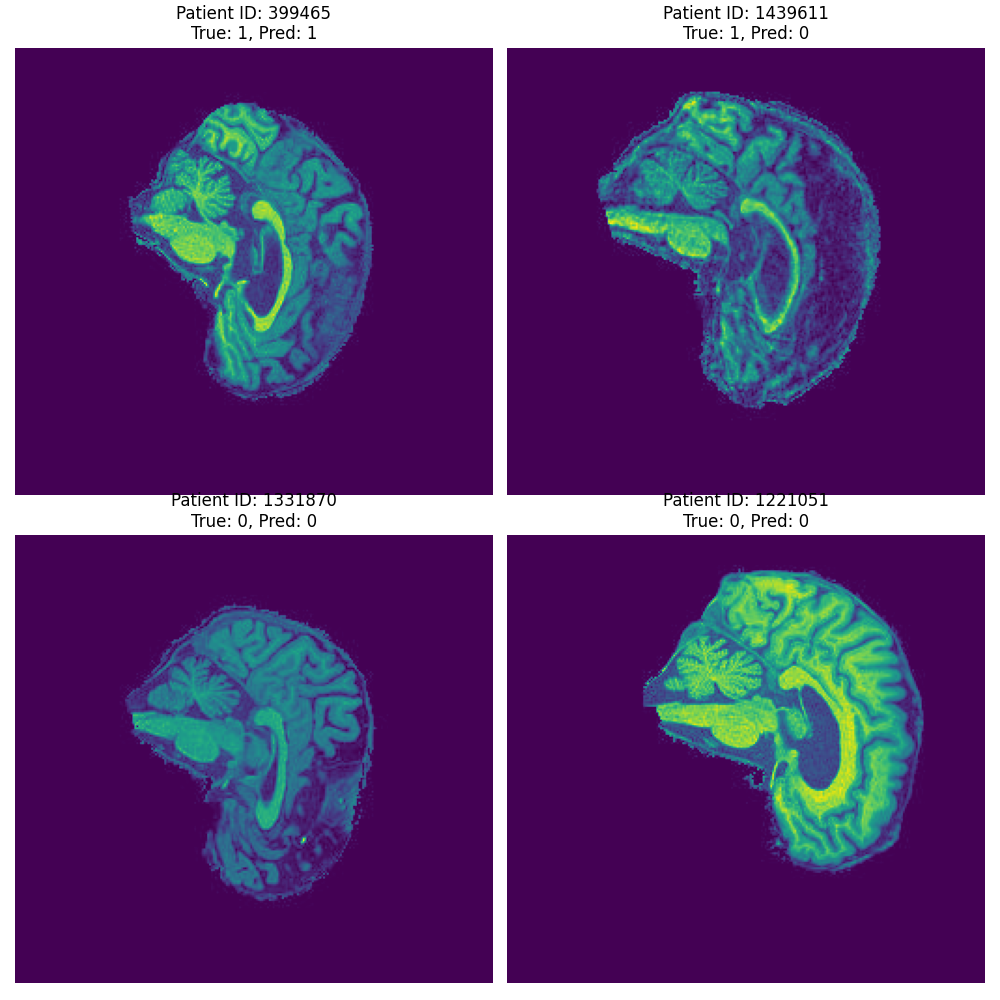
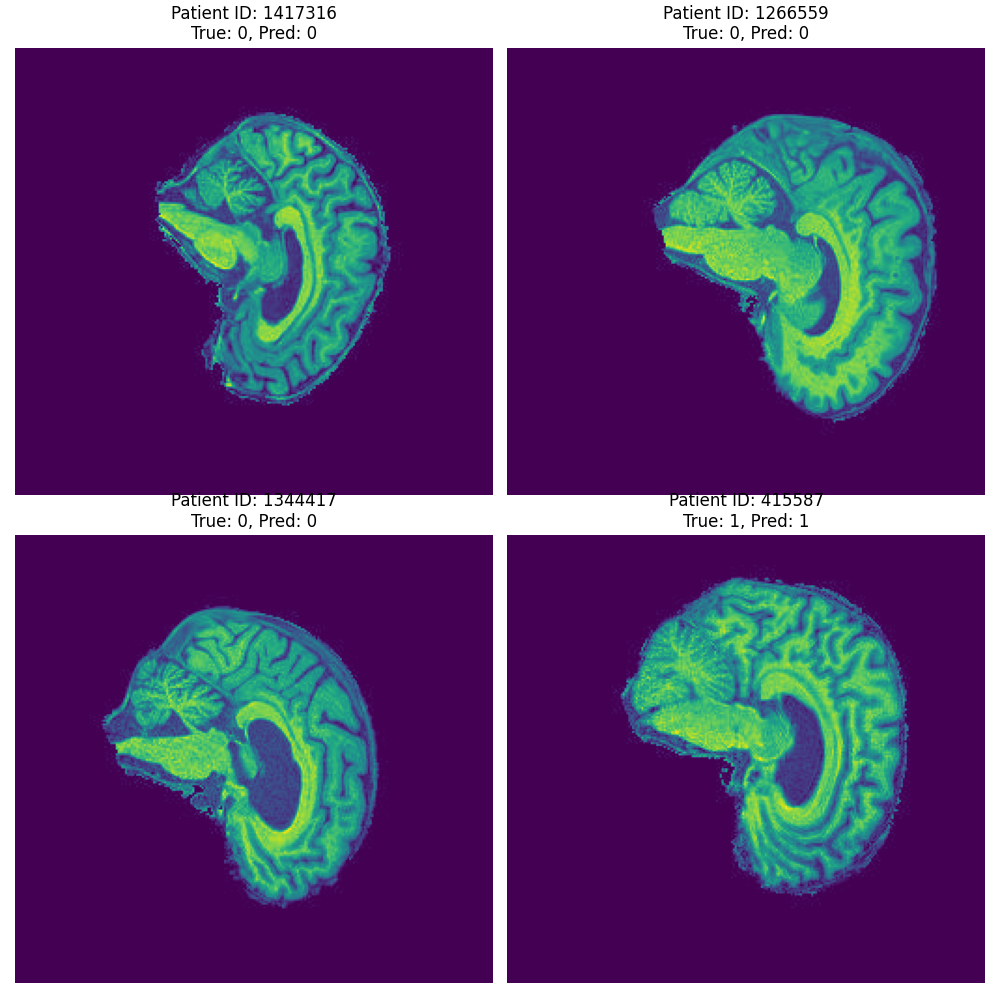
correct some typo in readme

diff --git a/recognition/alzheimer_classification_s4863083/README.md b/recognition/alzheimer_classification_s4863083/README.md
@@ -95,7 +95,7 @@ pip install -r requirements.txt
     ```
 
 4.  **Train and Evaluate the Model:**
-    Run `train.py` to start the training, validation, and final testing process. The script will save the best model weights (`convnext_base_best.pth`) and a CSV of test predictions (`preds.csv`).
+    Run `train.py` to start the training, validation, and final testing process. The script will save the latest model weights (`convnext_base_best.pth`) and a CSV of test predictions (`preds.csv`).
     ```bash
     python train.py
     ```
